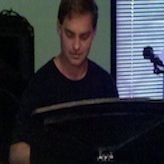
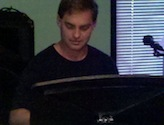
scaled image

diff --git a/css/styles.css b/css/styles.css
@@ -127,8 +127,8 @@ article h1 {
 }
 
 .profilepic {
-    height: 164px;
-    width: 164px;
+    /*height: 164px;
+    width: 164px;*/
     moz-box-shadow: 2px 2px 0 #545659;
     -webkit-box-shadow: 2px 2px 0 #545659;
     box-shadow: 2px 2px 0 #545659;
